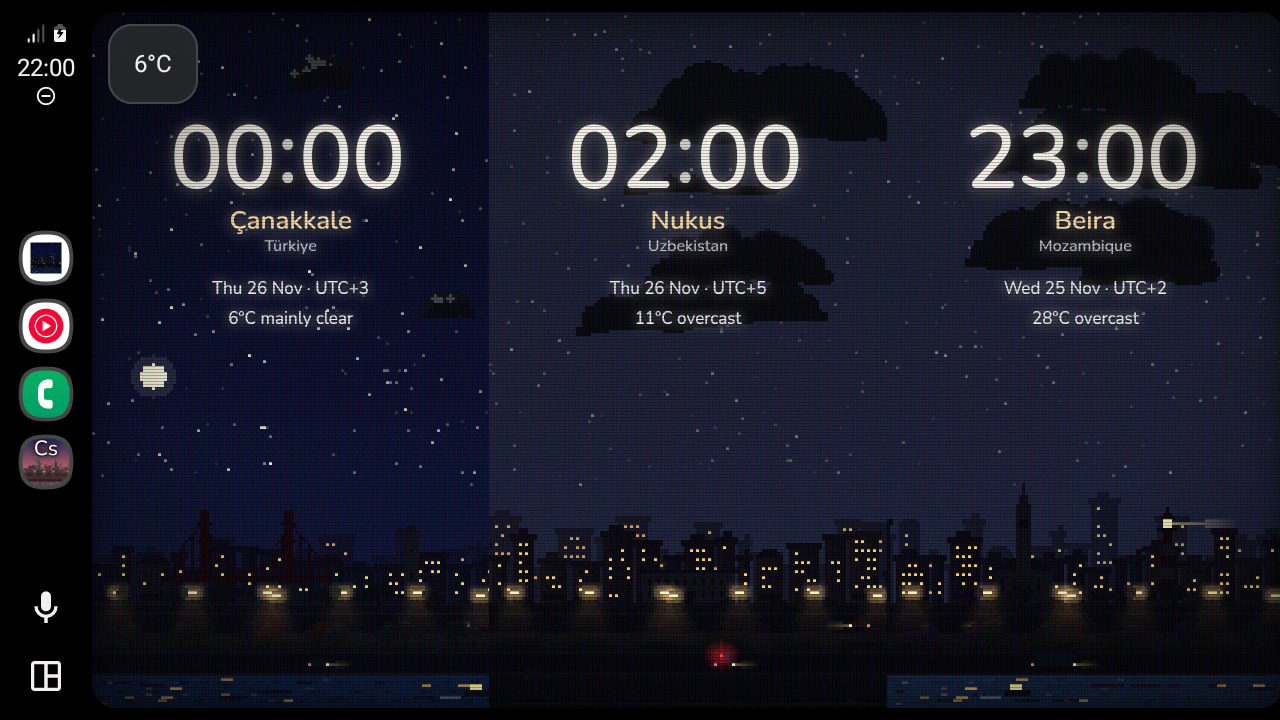
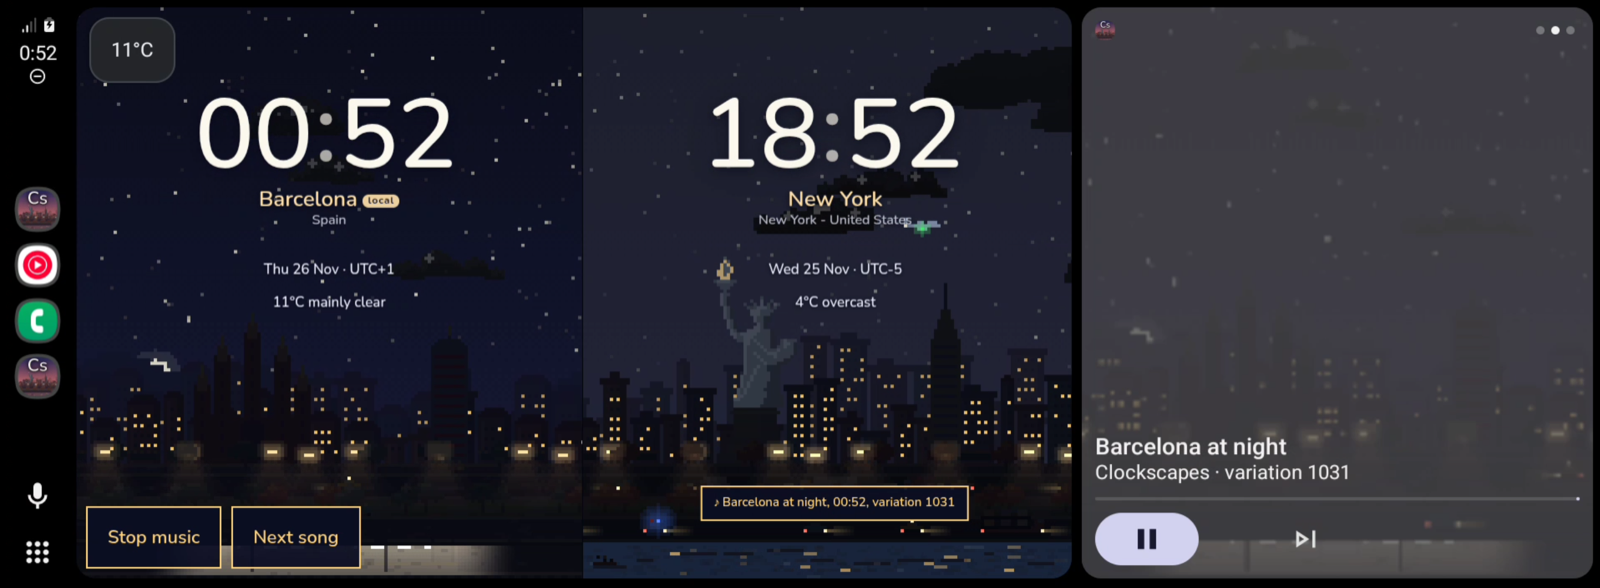
README: Android Auto picture from the weather build

diff --git a/docs/GUIDE.md b/docs/GUIDE.md
@@ -46,7 +46,7 @@ In the app, the music plays with the app's own native sound engine instead of th
 
 With Android Auto, Clockscapes fills the car's screen with your cities standing side by side. Android Auto always keeps a small card in a corner, so Clockscapes uses it for the temperature of your first clock.
 
-<img src="../img/android-auto.png" alt="Android Auto: Çanakkale, Nukus and Beira at night side by side, with a small 6°C card in the corner" width="100%">
+<img src="../img/android-auto.png" alt="Android Auto: Barcelona and New York at night side by side, with music buttons and the song playing in the card beside them" width="100%">
 
 Tap the scene and **Play music** and **Next song** show at the lower left for ten seconds. While the music plays, Android Auto's media card shows the song's name, with the scene of your local city (or your first clock's city) as its picture, and its own pause and skip buttons work too.
 

diff --git a/README.md b/README.md
@@ -12,7 +12,7 @@ Open **https://utopick.github.io/clockscapes/** in any browser, or install it fr
 
 There is also an Android app, attached to each [release](https://github.com/utopick/clockscapes/releases). On a phone it can be your live wallpaper, and on Android TV and Google TV it can be your screensaver. With Android Auto it fills the car's screen with your cities:
 
-<img src="img/android-auto.png" alt="Android Auto: Çanakkale, Nukus and Beira at night side by side, with a small card in the corner" width="100%">
+<img src="img/android-auto.png" alt="Android Auto: Barcelona and New York at night side by side, with music buttons and the song playing in the card beside them" width="100%">
 
 ## What it does
 
